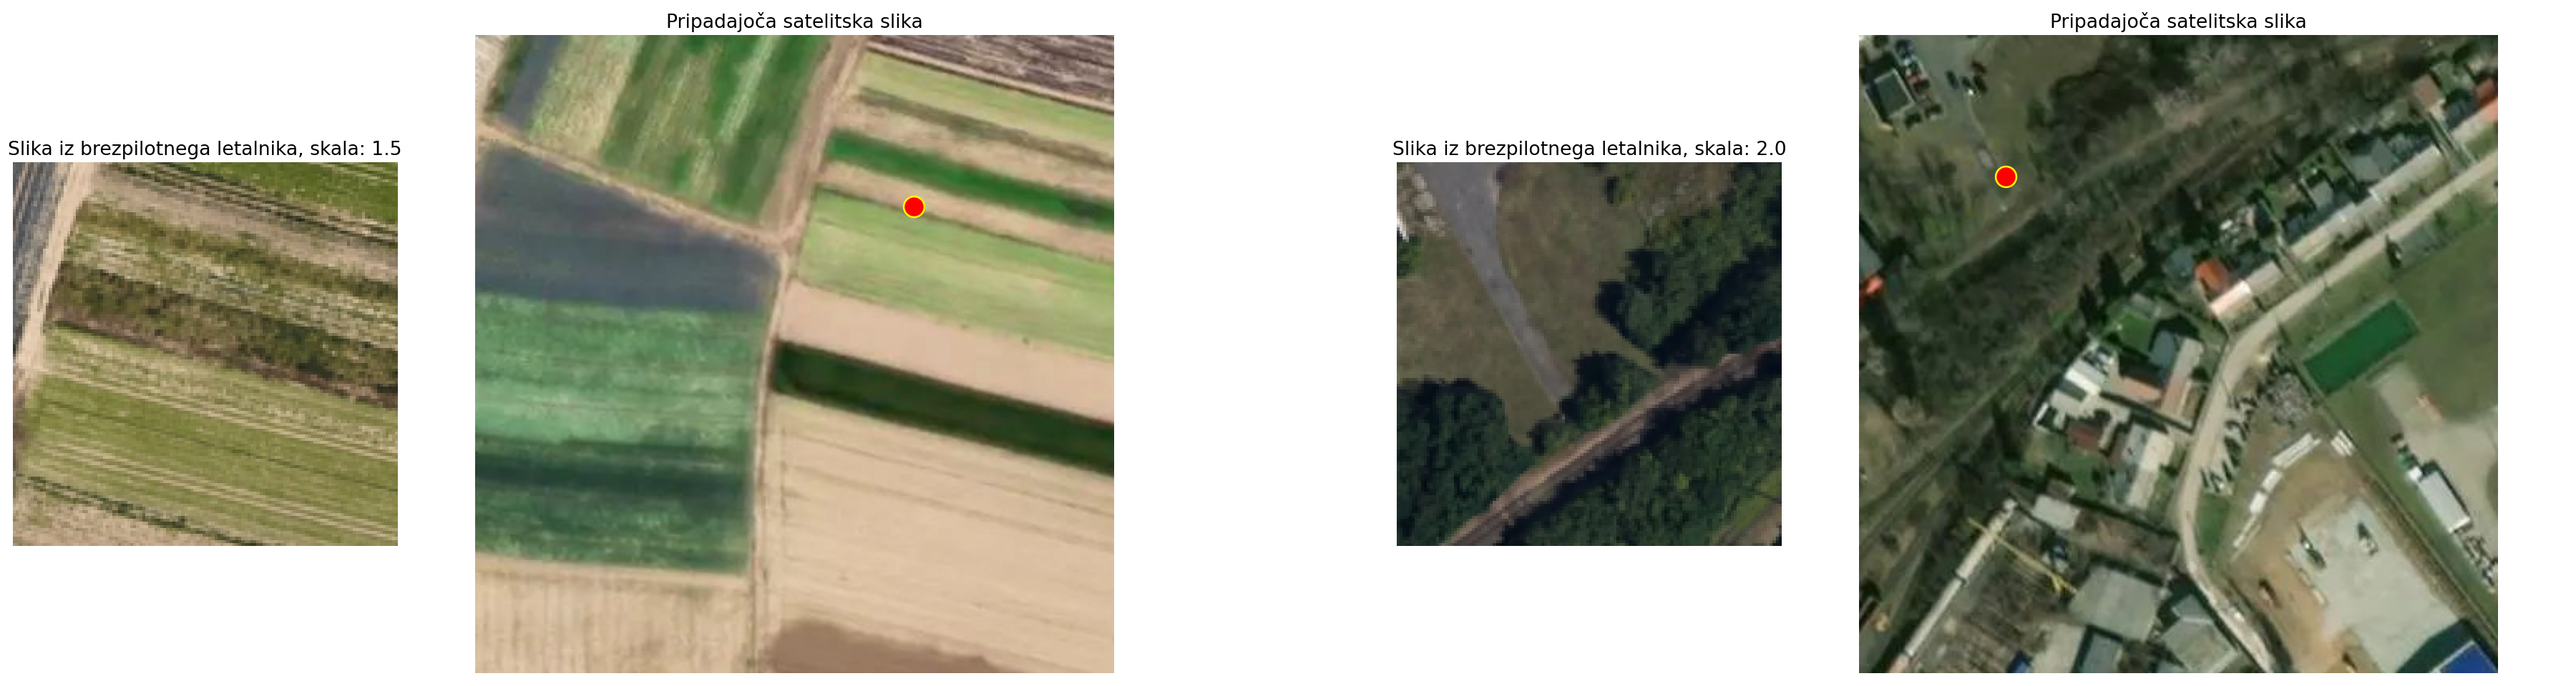
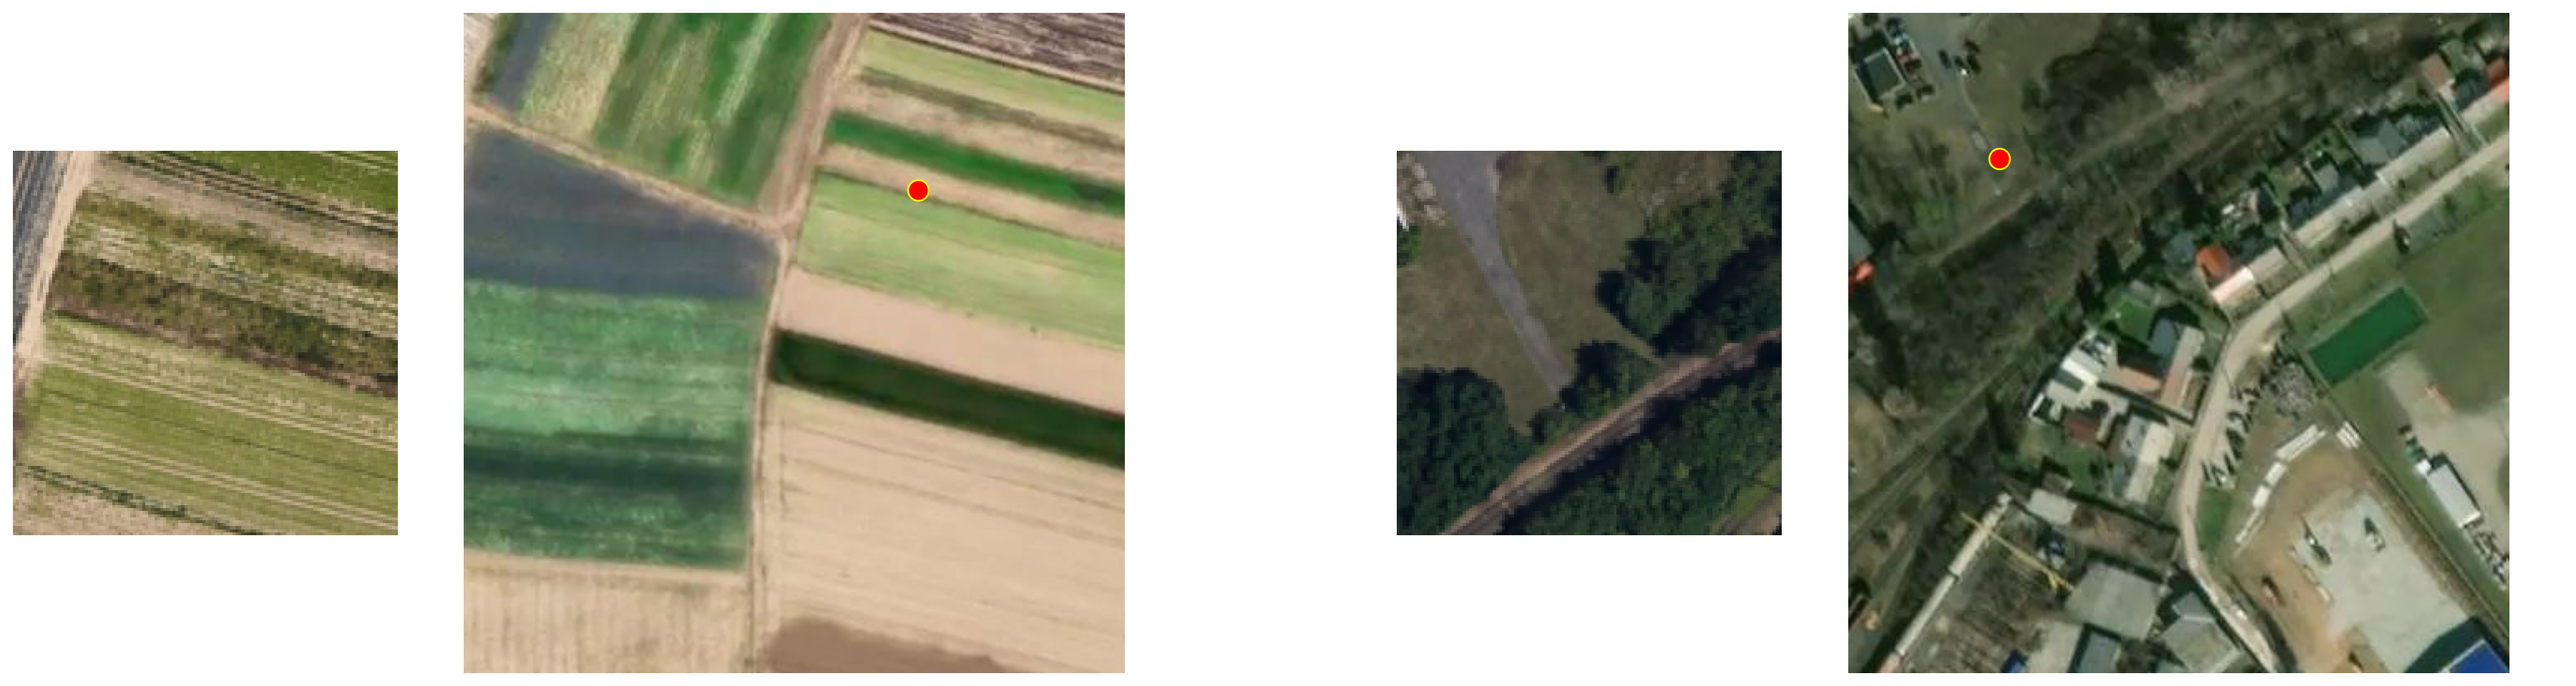
Fixes in the plots

diff --git a/utils/plot3d_heatmaps.py b/utils/plot3d_heatmaps.py
@@ -59,40 +59,30 @@ def plot_images_from_directory(directory, hash_to_kernel):
     # Sort files by kernel size
     files = sorted(files, key=lambda f: get_kernel_size_from_file(f, hash_to_kernel))
 
-    images_per_plot = 2
-    n_plots = math.ceil(len(files) / images_per_plot)
+    plt.figure(figsize=(10, 25))  # Adjust the figure size to make it compact
 
-    for plot_idx in range(n_plots):
-        start_idx = plot_idx * images_per_plot
-        end_idx = start_idx + images_per_plot
+    for idx, file in enumerate(files):
+        hash_value = file.split("_")[-1]
+        hash_value = hash_value.split("-")[0].strip()
+        kernel_size = hash_to_kernel.get(hash_value, "Unknown")
 
-        plt.figure(figsize=(12, 12))
+        rds_value = get_rds_from_file(file, directory)
+        title = f"Velikost hanningovega okna: {kernel_size}"
 
-        for idx, file in enumerate(files[start_idx:end_idx]):
-            hash_value = file.split("_")[-1]
-            hash_value = hash_value.split("-")[0].strip()
-            kernel_size = hash_to_kernel.get(hash_value, "Unknown")
+        if rds_value is not None:
+            title += f", RDS: {rds_value:.2f}"
 
-            rds_value = get_rds_from_file(file, directory)
-            title = f"Velikost hanningovega okna: {kernel_size}"
+        img_path = os.path.join(directory, file)
+        img = mpimg.imread(img_path)
 
-            if rds_value is not None:
-                title += f", RDS: {rds_value:.2f}"
+        ax = plt.subplot(5, 2, idx + 1)  # 5 rows, 2 columns for 10 images
+        ax.imshow(img)
+        ax.axis("off")  # Hide axes
+        ax.set_title(title, fontsize=14)
 
-            img_path = os.path.join(directory, file)
-            img = mpimg.imread(img_path)
-
-            if len(files[start_idx:end_idx]) <= 3:
-                ax = plt.subplot(1, len(files[start_idx:end_idx]), idx + 1)  # 1 row
-            else:
-                ax = plt.subplot(2, 3, idx + 1)  # 2 rows, 3 columns for 6 images
-
-            ax.imshow(img)
-            ax.axis("off")  # Hide axes
-            ax.set_title(title, fontsize=14)
-
-        plt.tight_layout()
-        plt.savefig(f"res/heatmaps3d_{plot_idx + 1}.png")
+    plt.tight_layout(pad=0)  # Remove padding between subplots
+    plt.subplots_adjust(wspace=0, hspace=0)  # Remove whitespace between subplots
+    plt.savefig("res/combined_heatmaps3d.png")
 
 
 if __name__ == "__main__":

diff --git a/utils/plotting.py b/utils/plotting.py
@@ -3,6 +3,7 @@ import numpy as np
 from scipy.stats import norm
 from mpl_toolkits.mplot3d import Axes3D
 
+
 def hanning_2d(M):
     """
     Return normalized hanning window
@@ -22,22 +23,24 @@ def gaussian_2d(size, sigma=1):
     kernel = np.exp(-(xx**2 + yy**2) / (2.0 * sigma**2))
     return kernel / np.sum(kernel)
 
+
 def plot_kernel_3d(kernel, title):
     fig = plt.figure(figsize=(8, 6))
-    ax = fig.add_subplot(111, projection='3d')
-    
-    x = np.linspace(0, kernel.shape[1]-1, kernel.shape[1])
-    y = np.linspace(0, kernel.shape[0]-1, kernel.shape[0])
+    ax = fig.add_subplot(111, projection="3d")
+
+    x = np.linspace(0, kernel.shape[1] - 1, kernel.shape[1])
+    y = np.linspace(0, kernel.shape[0] - 1, kernel.shape[0])
     X, Y = np.meshgrid(x, y)
-    
-    surf = ax.plot_surface(X, Y, kernel, cmap='jet', linewidth=0, antialiased=True)
-    
+
+    surf = ax.plot_surface(X, Y, kernel, cmap="jet", linewidth=0, antialiased=True)
+
     fig.colorbar(surf, ax=ax, shrink=0.6, aspect=10)
-    
+
     ax.set_title(title)
     plt.savefig("./res/" + title + ".png", format="png")
     plt.show()
     plt.close()
+
 
 # Define size and sigma
 size = 33
